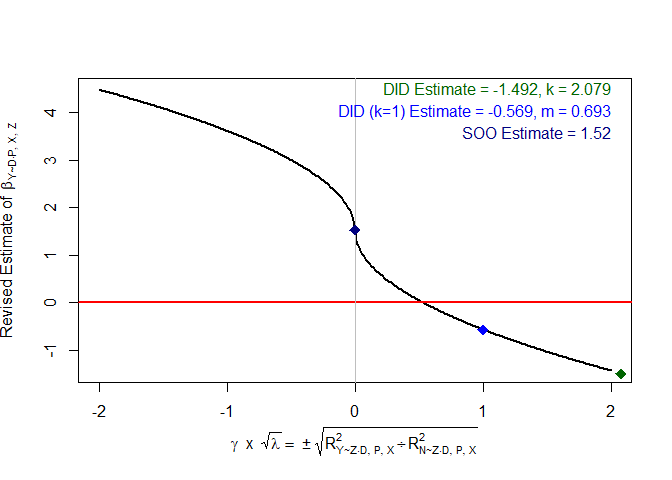
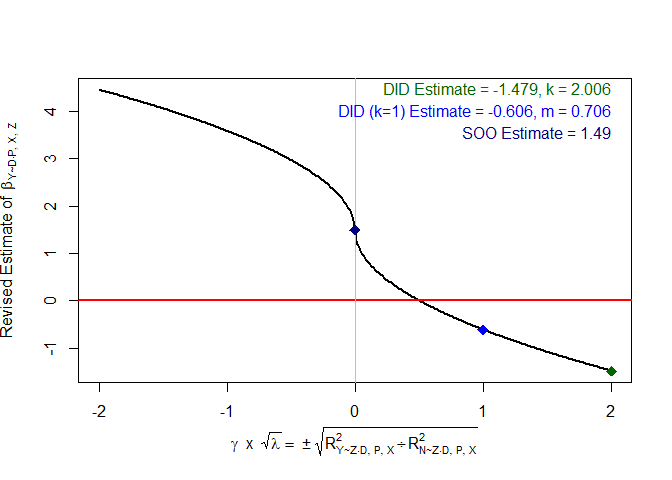
update readme

diff --git a/README.md b/README.md
@@ -5,6 +5,7 @@
 <!-- badges: end -->
 
 Initial R package for making causal progress with imperfect placebos.
+See Rohde and Hazlett (20XX) for details.
 
 ## Installation
 
@@ -18,11 +19,14 @@ devtools::install_github("Adam-Rohde/ripp")
 
 ## Example
 
-Here is a simple simulated example of how to use a placebo outcome $N$
-to inform partial identification of the effect of $D$ on $Y$. We start
-by simulating some data. $Z$ is an unobserved confounder. Then we fit
+Here is a simple simulated example of how to use a placebo outcome `N`
+to inform partial identification of the effect of `D` on `Y`. We start
+by simulating some data. `Z` is an unobserved confounder. Then we fit
 `lm(Y ~ D)` and `lm(N ~ D)`. Next, we call the `ripp` function, followed
-by `ripp_summary`, `ripp_contour_plot`, and `ripp_line_plot`.
+by `ripp_summary`, `ripp_contour_plot`, and `ripp_line_plot`. We call
+`ripp_line_plot` under the assumption that `beta.nd.pxz=0` as well as
+under the assumption that `beta.nd.pxz=2`, which is the true value in
+the simulation.
 
 ``` r
 library(ripp)
@@ -43,7 +47,7 @@ ripp_summary(ripper)
 
 |             |  SOO | Perfect Placebo DID | Perfect Placebo DID lambda=1 | RV lambda, q=1 | RV beta, q=1 |
 |:------------|-----:|--------------------:|-----------------------------:|---------------:|-------------:|
-| beta.yd.pxz | 1.52 |              -1.492 |                       -0.569 |          0.529 |         0.82 |
+| beta.yd.pxz | 1.49 |              -1.479 |                       -0.606 |          0.505 |        0.859 |
 
 ``` r
 ripp_contour_plot(ripper)
